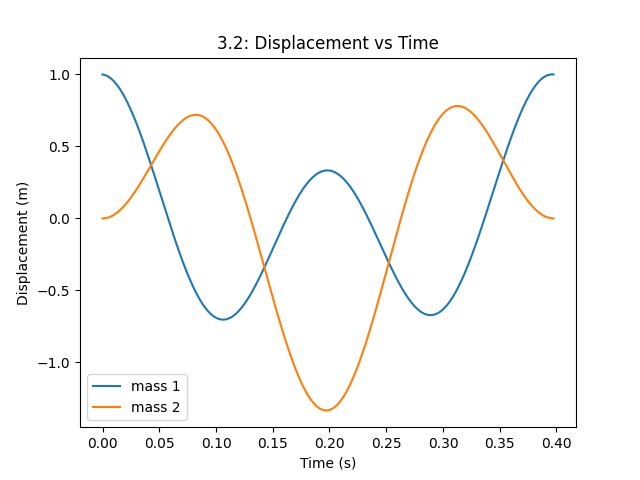
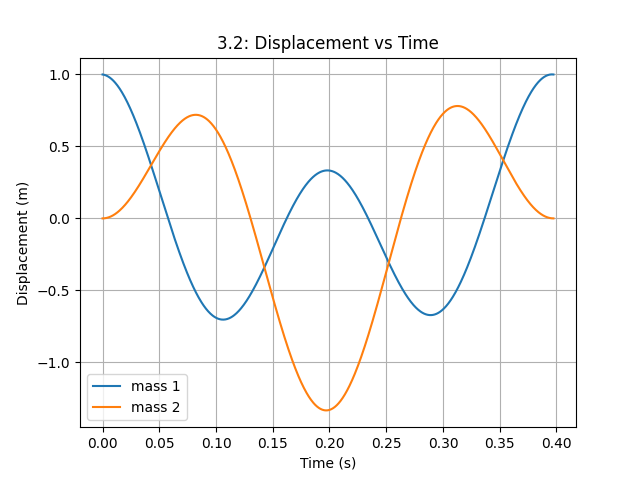
question 3 edits

diff --git a/question3.py b/question3.py
@@ -21,7 +21,6 @@ def get_modal_shapes(x0,v0,m,k,t,f_modal):
     r=np.zeros(2)
     for i in range(2):
         r[i]=((k[1]+k[0])-m[0]*f_modal[i]**2)/k[1]
-    print(r)
     A=np.array([[1,1],[r[0],r[1]]])
     B=np.array([x0[0],x0[1]])
     Xcos=np.linalg.inv(A).dot(B)
@@ -44,6 +43,7 @@ def plot_modal_shapes(x0,v0,m,k,t,f_modal,fignum):
     plt.xlabel('Time (s)')
     plt.ylabel('Displacement (m)')
     plt.title(fignum+': Displacement vs Time')
+    plt.grid()
     plt.savefig(fignum+' Displacement vs Time.png')
     plt.show()
     
